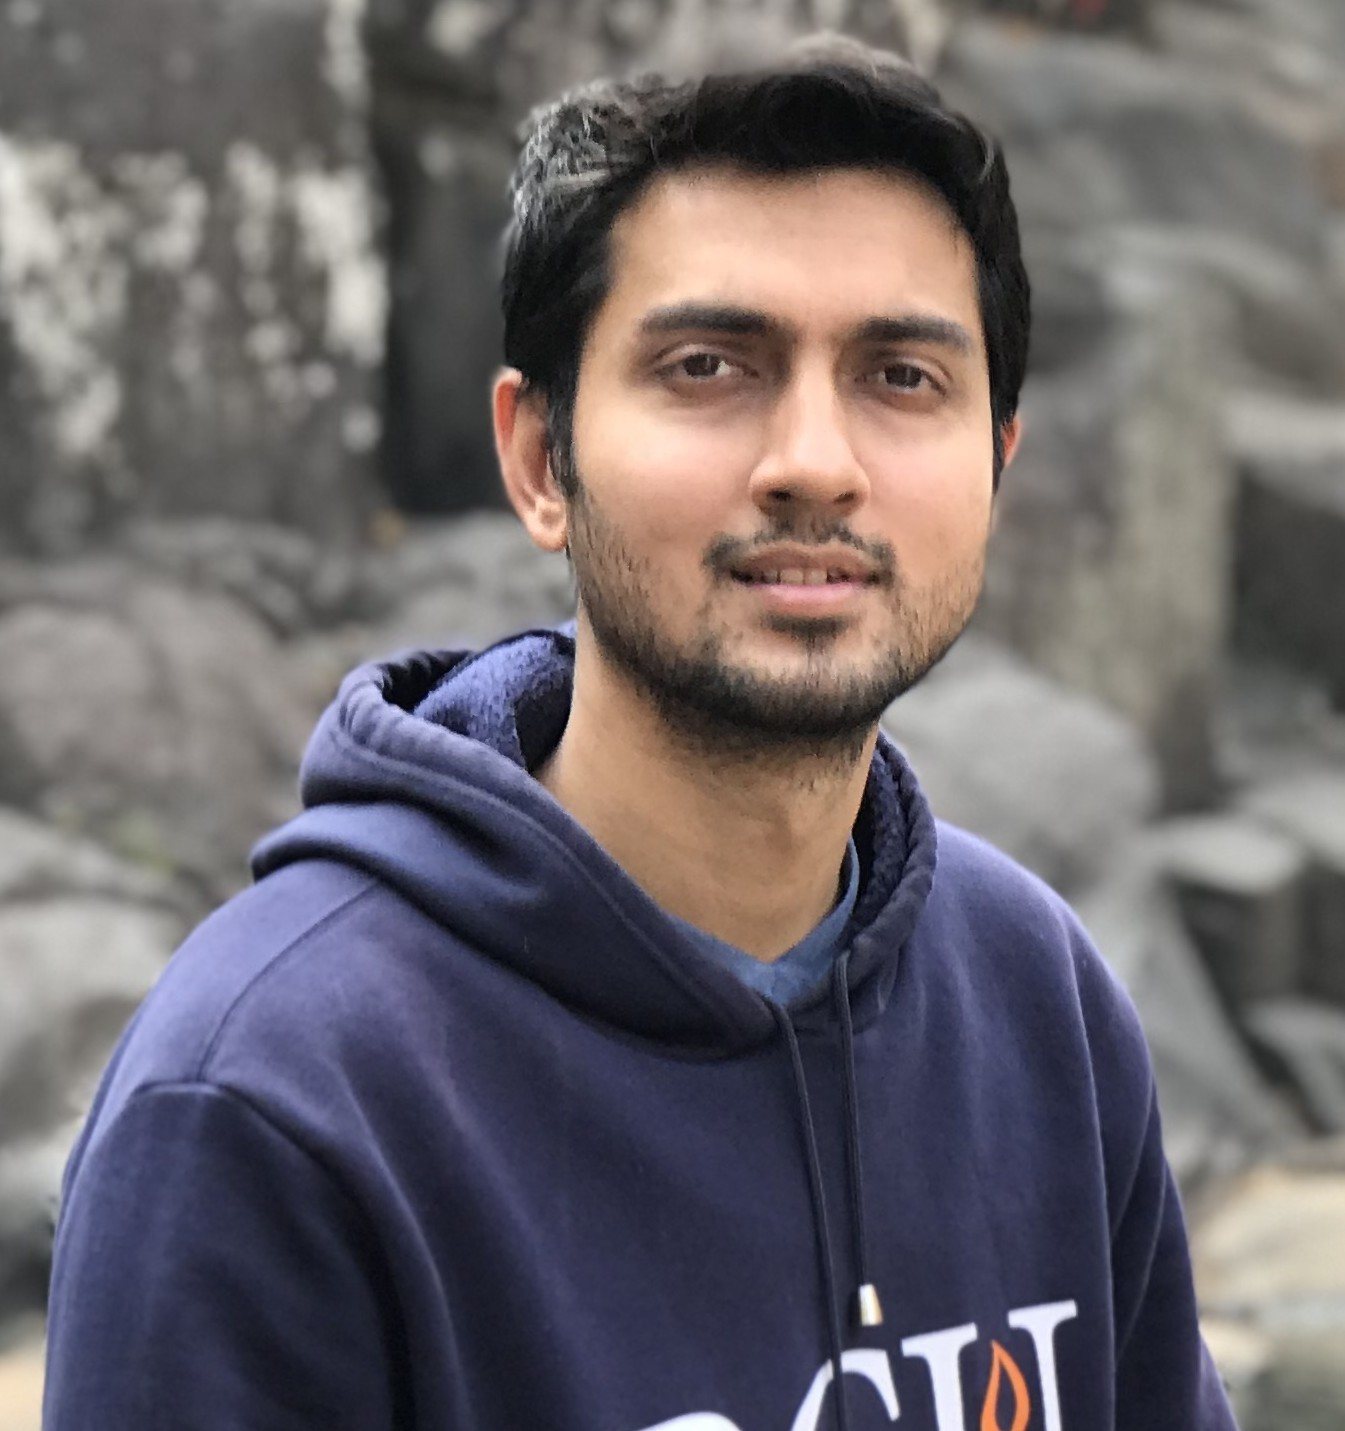
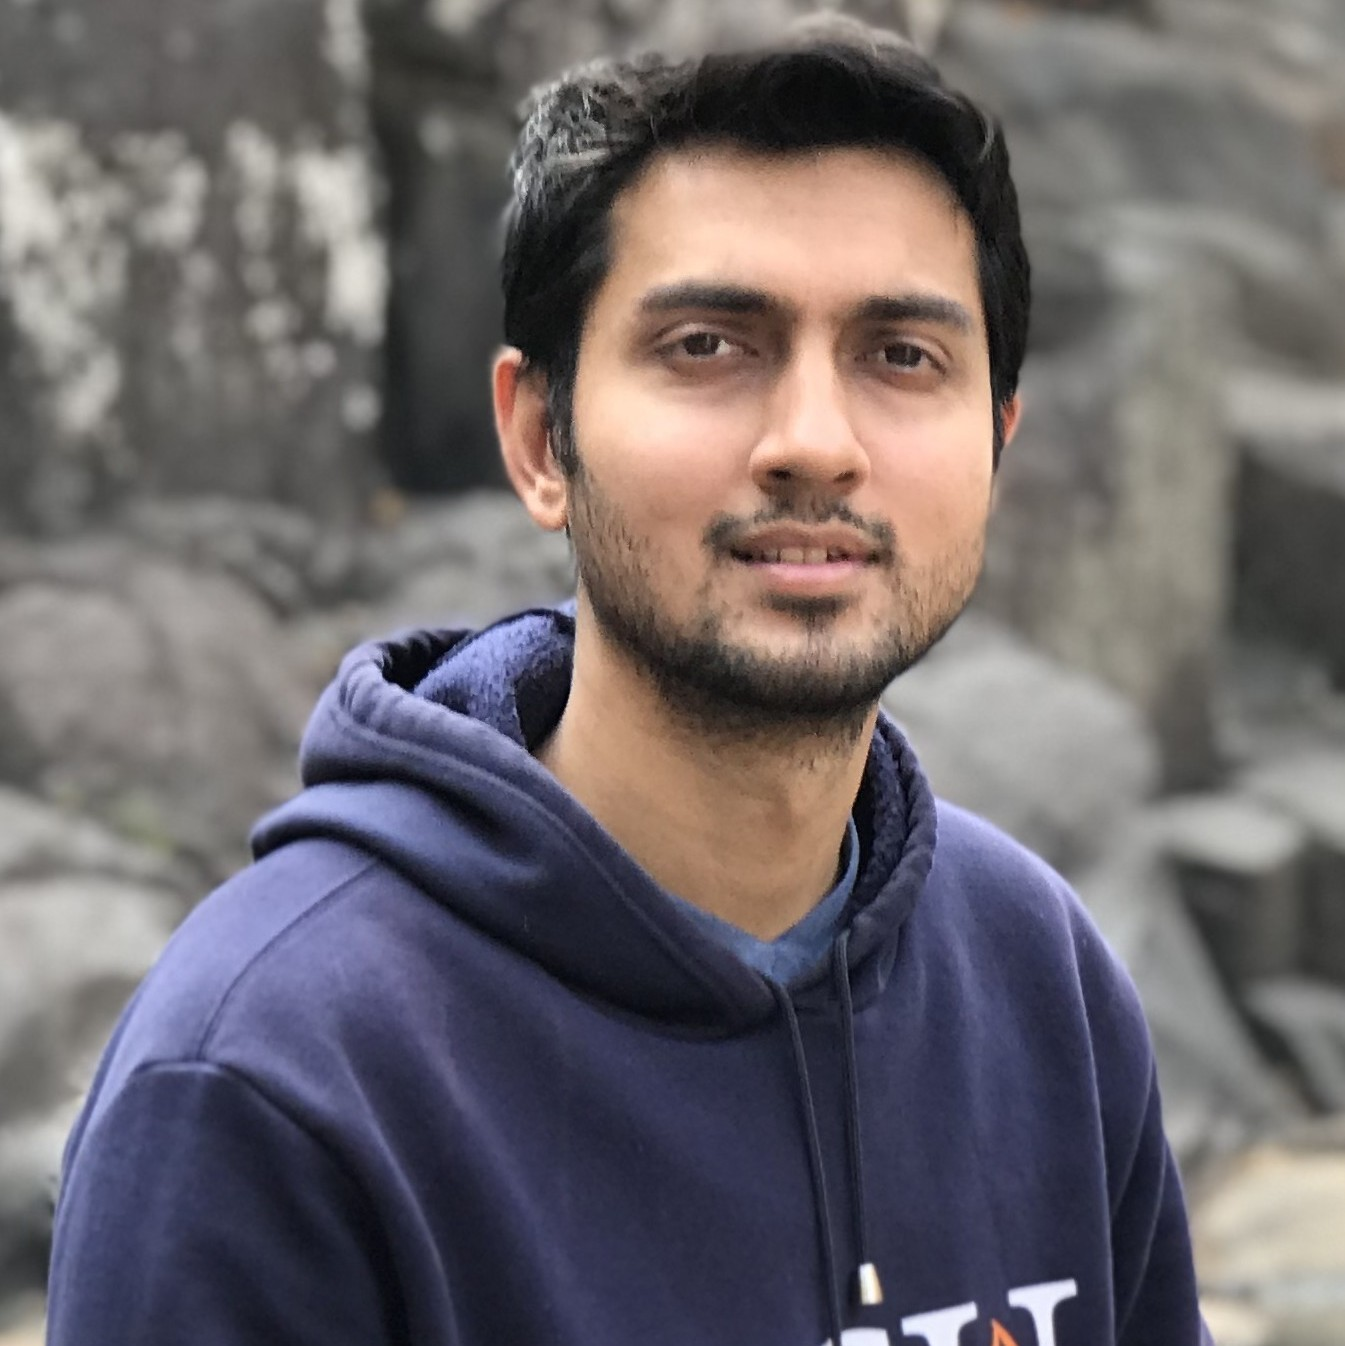
added Alex Allen

diff --git a/people/_posts/2022-02-20-alexander-allen.md b/people/_posts/2022-02-20-alexander-allen.md
@@ -1,0 +1,15 @@
+layout: member
+title: Alexander Allen 
+position: Undergraduate Student
+field: Mechanical Engineering
+nickname: Alex
+handle: aaa423
+email: aaa423@cornell.edu
+twitter:
+github: 
+scholar:
+image: /assets/images/people/alexander-allen.jpg
+cv:
+alum: false
+---
+Alex is a Sophmore student in Mechanical Engineering. He is particularly interested in the field of Human-Robot interaction because robotics ability to augment human capabilities both on earth in space. Alex is working with Matthew Law to explore the software, electrical and mechanical requirements, relating to roles that humans and robots have in the a shared workspace.
